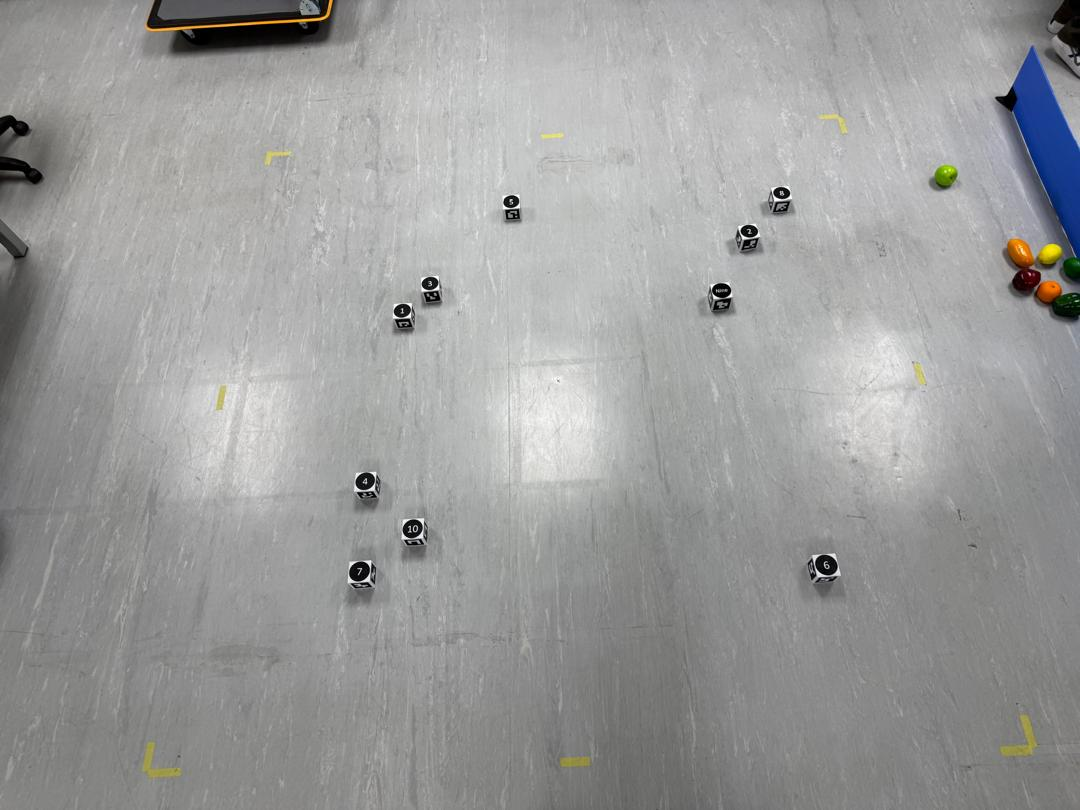
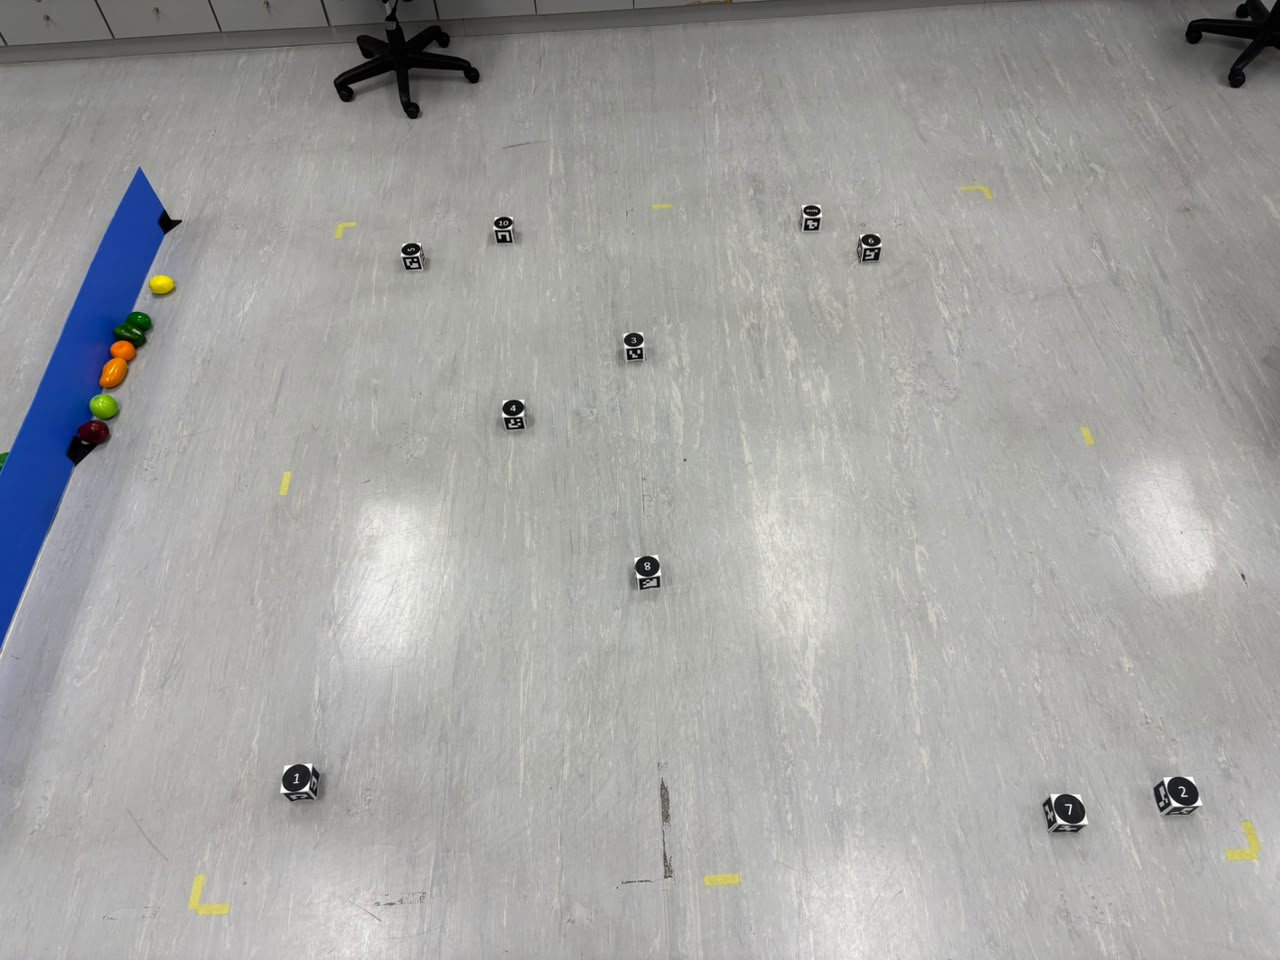
Update wheel calibration, controls & EKF
Update calibration parameters and routines, increase keyboard control speeds, and make EKF covariance update numerically stable. Changed baseline.txt and scale.txt values, adjusted wheel_speed_range in calibration/wheel_calibration.py to use higher speeds and larger ranges, and increased base_wheel_speed magnitudes in operate.py for arrow keys. Replaced EKF covariance update in slam/ekf.py with the Joseph form and enforced symmetry to improve numerical stability. Also replaced the sample input image. These changes improve calibration robustness, control responsiveness, and filter stability.

diff --git a/operate.py b/operate.py
@@ -242,13 +242,13 @@ class Operate:
                 self.adjust_pid('kd', self.pid_step)
 
             if event.type == pygame.KEYDOWN and event.key == pygame.K_UP:
-                self.base_wheel_speed = [0.35, 0.35]
+                self.base_wheel_speed = [0.6, 0.6]
             if event.type == pygame.KEYDOWN and event.key == pygame.K_DOWN:
-                self.base_wheel_speed = [-0.35, -0.35]
+                self.base_wheel_speed = [-0.6, -0.6]
             if event.type == pygame.KEYDOWN and event.key == pygame.K_LEFT:
-                self.base_wheel_speed = [-0.3, 0.3]
+                self.base_wheel_speed = [-0.5, 0.5]
             if event.type == pygame.KEYDOWN and event.key == pygame.K_RIGHT:
-                self.base_wheel_speed = [0.3, -0.3]
+                self.base_wheel_speed = [0.5, -0.5]
             if event.type == pygame.KEYDOWN and event.key == pygame.K_SPACE:
                 self.base_wheel_speed = [0.0, 0.0]
             if event.type == pygame.KEYUP and event.key in (pygame.K_UP, pygame.K_DOWN, pygame.K_LEFT, pygame.K_RIGHT):

diff --git a/calibration/wheel_calibration.py b/calibration/wheel_calibration.py
@@ -16,7 +16,7 @@ def calibrateScale():
     # Repeat the procedures multiple times (can use different raw speed), to obtain the average value for a more robust measurement.
 
     # Feel free to change the range and do more repetition
-    wheel_speed_range = [[0.35, 0.35], [0.45, 0.45], [0.5, 0.5]]
+    wheel_speed_range = [[0.5, 0.5], [0.6, 0.6], [0.7, 0.7]]
     delta_times = []
 
     for wheel_speed in wheel_speed_range:
@@ -52,7 +52,7 @@ def calibrateBaseline(scale):
     # From the wheel_speed and delta_time, find out mathematically how to calculate the baseline.
 
     # Feel free to change the range / step and do more repetition
-    wheel_speed_range = [[-0.3, 0.3], [-0.3, 0.3], [-0.3, 0.3]]
+    wheel_speed_range = [[-0.5, 0.5], [-0.5, 0.5], [-0.5, 0.5]]
     delta_times = []
 
     for wheel_speed in wheel_speed_range:

diff --git a/slam/ekf.py b/slam/ekf.py
@@ -178,8 +178,16 @@ class EKF:
         self.set_state_vector(x_updated)
         
         # 5. Update state covariance P
+        # I = np.eye(len(x))
+        # self.P = (I - K @ H) @ self.P
+
+        # Joseph Form (Symmetric & Numerically Stable):
         I = np.eye(len(x))
-        self.P = (I - K @ H) @ self.P
+        I_KH = I - K @ H
+        self.P = I_KH @ self.P @ I_KH.T + K @ R @ K.T
+
+        # Force exact numerical symmetry
+        self.P = 0.5 * (self.P + self.P.T)
         # TODO ends
 
 
